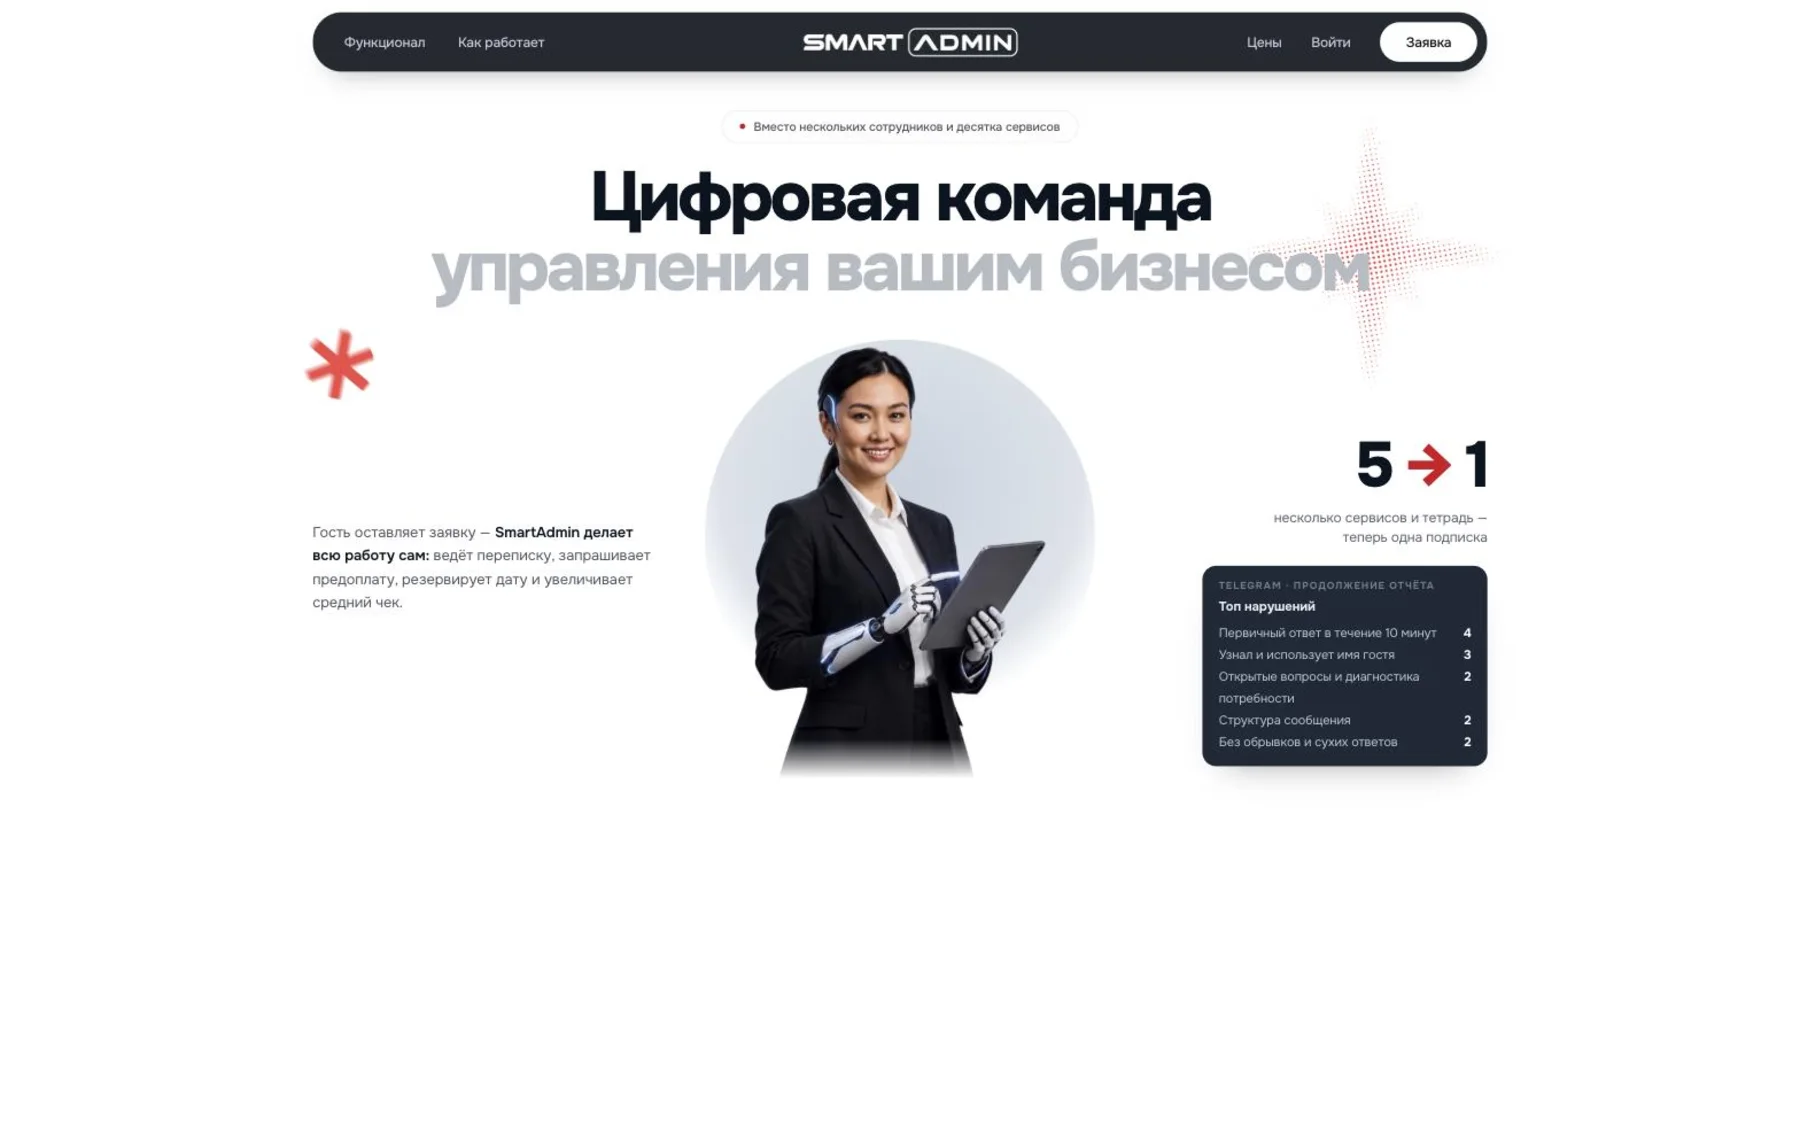
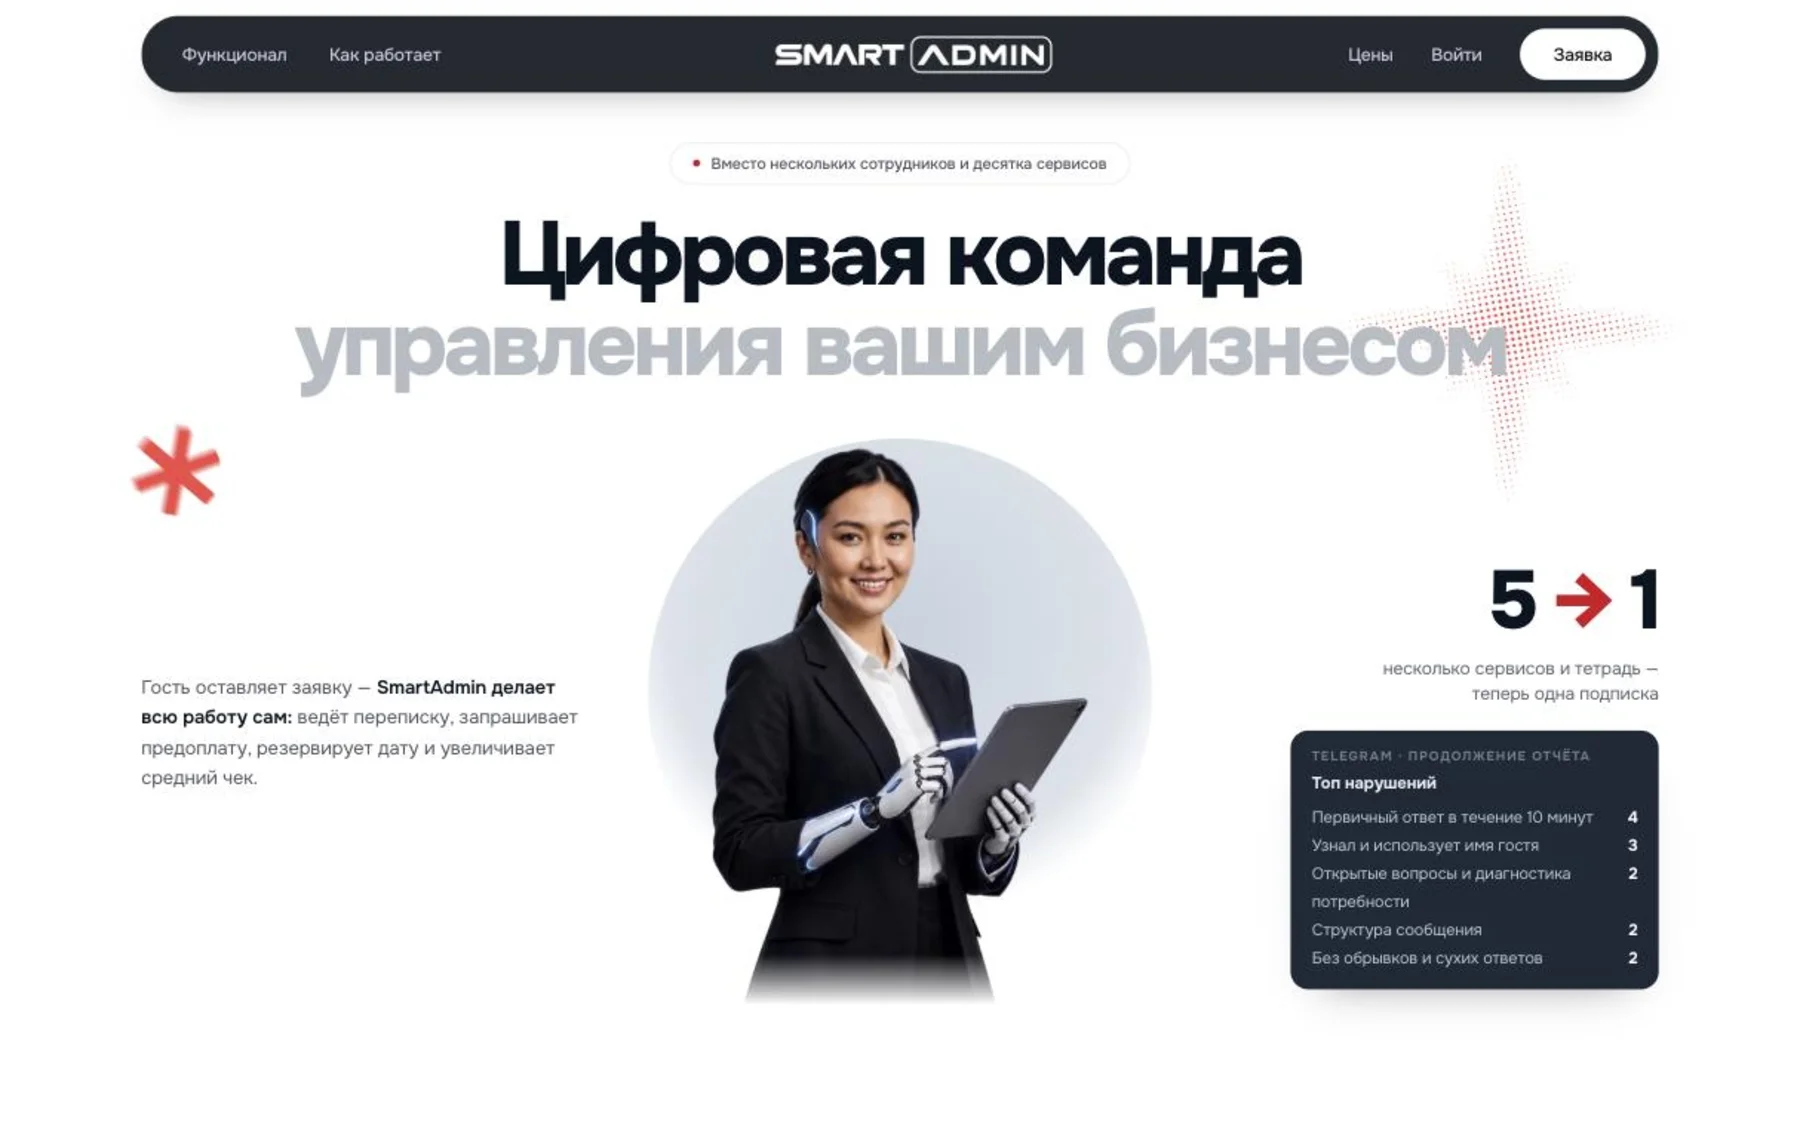
Портфолио: плотный кадр превью SmartAdmin + версия в ссылке
Прежний кадр был слишком воздушным: белые поля занимали половину
превью, а содержимое попадало ровно под затемняющий градиент карточки —
на месте скриншота виднелась светлая полоса. Кадр пересобран плотно
(кроп 16:10 по содержимому, без полей).

Картинки портфолио отдаются с max-age=31536000, immutable — поэтому
у уже заходивших осталось бы старое превью; ссылка помечена ?v=2.
SW v122.

Changed region(s): [[0.0622, 0.0, 0.9333, 0.9022], [0.0622, 0.5911, 0.3111, 0.7156], [0.0622, 0.3733, 0.1244, 0.4667]]

diff --git a/index.html b/index.html
@@ -2920,7 +2920,7 @@ const PORTFOLIO = [
   { id:'10', name:'PRO CERAMIC',         url:'https://pro-ceramic.kz',                         img:'portfolio/10_pro-ceramic.webp',   cls:'pf-10' },
   { id:'11', name:'Fibonacci Control',   url:'https://fibonaccicontrol.com',                   img:'portfolio/11_fibonacci-control.webp', cls:'pf-11' },
   { id:'12', name:'AI-консультант SITS', url:'/price',                                         img:'portfolio/12_ai-assistant.webp',  cls:'pf-12' },
-  { id:'13', name:'SmartAdmin',         url:'https://smartadmin.kz',                          img:'portfolio/13_smartadmin.webp',    cls:'pf-13' },
+  { id:'13', name:'SmartAdmin',         url:'https://smartadmin.kz',                          img:'portfolio/13_smartadmin.webp?v=2',    cls:'pf-13' },
 ];
 
 function esc(s){ return String(s).replace(/[&<>"]/g, c => ({'&':'&amp;','<':'&lt;','>':'&gt;','"':'&quot;'}[c])); }

diff --git a/sw.js b/sw.js
@@ -4,7 +4,7 @@
    Versioned cache name; old caches purged on activate.
    Bypass: ?nosw=1 query param tells SW to skip caching for that request. */
 
-const CACHE = 'sits-v121';
+const CACHE = 'sits-v122';
 
 /* Файлы, которые точно нужны для офлайн-первой загрузки */
 const PRECACHE = [
